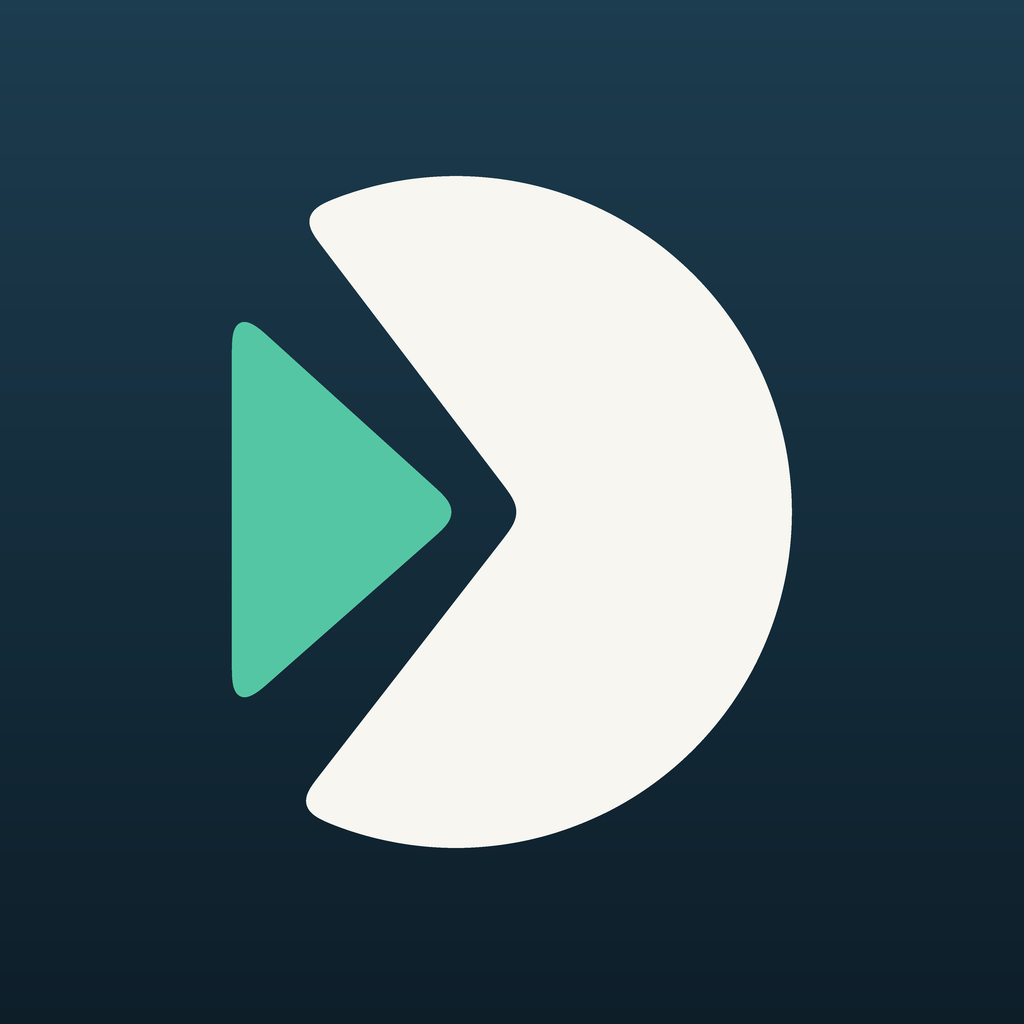
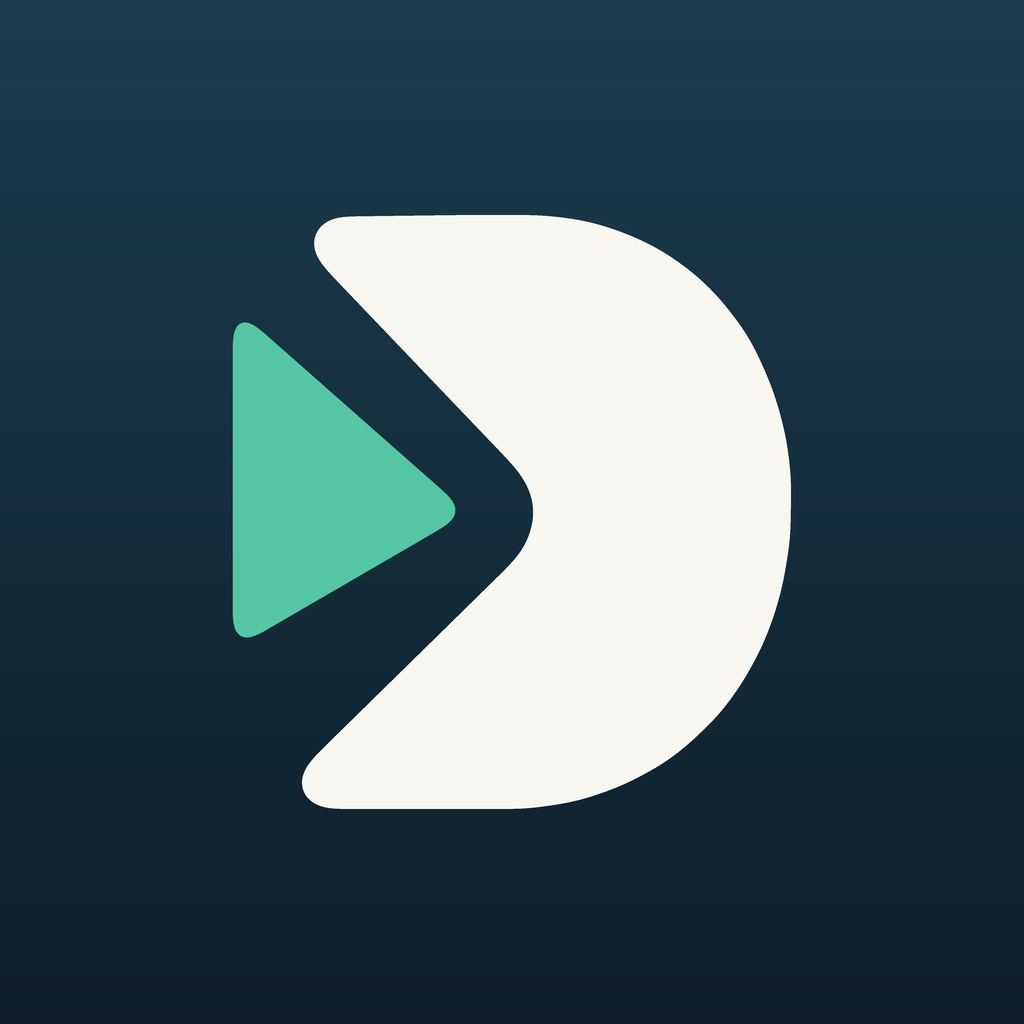
Trace the mark from the approved artwork instead of fitting it
The rejected outline came from re-deriving the shape out of measurements,
which drifted: the notch and sweep were close (48% and 244° against the
artwork's 48% and 244°) but the mint triangle was too tall and the gap
too tight, so the white form read as an inverted Pac-Man.

tools/trace-mark.py now lifts both silhouettes out of the approved PNG,
walks their outlines, simplifies them, and writes tools/mark.json, which
the icon generator draws from. The chevron keeps its traced outline, 45
points, since the artwork's own curve is the thing being approved. The
triangle is reduced to the three corners the trace found and rebuilt,
because tracing a small shape out of soft artwork left its edges lumpy.

Regenerates every asset: icon, adaptive icon, favicon, notification
silhouette, launch screen, OS splash icon, share card and tab icon.

Claude-Session: https://claude.ai/code/session_01VvhCpVzSWbSXcGW3tKcB8b

diff --git a/tools/trace-mark.py b/tools/trace-mark.py
@@ -1,0 +1,163 @@
+"""Traces the Trimio mark straight out of the approved artwork.
+
+Earlier passes re-derived the shape from measurements and drifted, so this
+reads the reference PNG instead: it lifts the two silhouettes, walks their
+outlines, simplifies the result, and writes both an SVG path and the
+normalised polygons the icon generator draws from. The shape is then
+exactly the one that was signed off, not an approximation of it.
+"""
+from PIL import Image, ImageFilter
+import json, sys
+
+SRC = "/root/.claude/uploads/572e8a57-90e7-50e4-9543-30207f74f2cf/f26cd04b-image.png"
+WIN = (280, 180, 1080, 1080)          # inside the tile, clear of its rounded corners
+
+im = Image.open(SRC).convert("RGB").crop(WIN)
+W, H = im.size
+px = im.load()
+
+
+def mask(pred):
+    m = Image.new("L", (W, H), 0)
+    mp = m.load()
+    for y in range(H):
+        for x in range(W):
+            if pred(px[x, y]):
+                mp[x, y] = 255
+    # close antialiasing speckle, then harden the edge again
+    m = m.filter(ImageFilter.MedianFilter(5))
+    return m.point(lambda v: 255 if v >= 128 else 0)
+
+
+white = mask(lambda p: p[0] > 222 and p[1] > 222 and p[2] > 214)
+mint = mask(lambda p: 40 < p[0] < 130 and 170 < p[1] < 250 and 130 < p[2] < 215)
+
+
+def largest_blob(m):
+    """Flood fill from every unvisited pixel, keep the biggest region."""
+    mp = m.load()
+    seen = bytearray(W * H)
+    best = []
+    for sy in range(H):
+        for sx in range(W):
+            if mp[sx, sy] == 0 or seen[sy * W + sx]:
+                continue
+            stack, comp = [(sx, sy)], []
+            seen[sy * W + sx] = 1
+            while stack:
+                x, y = stack.pop()
+                comp.append((x, y))
+                for dx, dy in ((1, 0), (-1, 0), (0, 1), (0, -1)):
+                    nx, ny = x + dx, y + dy
+                    if 0 <= nx < W and 0 <= ny < H and not seen[ny * W + nx] and mp[nx, ny]:
+                        seen[ny * W + nx] = 1
+                        stack.append((nx, ny))
+            if len(comp) > len(best):
+                best = comp
+    out = Image.new("L", (W, H), 0)
+    op = out.load()
+    for x, y in best:
+        op[x, y] = 255
+    return out
+
+
+def trace(m):
+    """Moore neighbourhood contour walk, clockwise."""
+    mp = m.load()
+    start = None
+    for y in range(H):
+        for x in range(W):
+            if mp[x, y]:
+                start = (x, y); break
+        if start: break
+    nbr = [(1, 0), (1, 1), (0, 1), (-1, 1), (-1, 0), (-1, -1), (0, -1), (1, -1)]
+    contour, cur, back = [start], start, 4
+    for _ in range(400000):
+        found = False
+        for k in range(8):
+            d = (back + 1 + k) % 8
+            nx, ny = cur[0] + nbr[d][0], cur[1] + nbr[d][1]
+            if 0 <= nx < W and 0 <= ny < H and mp[nx, ny]:
+                back = (d + 5) % 8
+                cur = (nx, ny)
+                contour.append(cur)
+                found = True
+                break
+        if not found or (len(contour) > 3 and cur == start):
+            break
+    return contour
+
+
+def rdp(pts, eps):
+    if len(pts) < 3:
+        return pts
+    a, b = pts[0], pts[-1]
+    dx, dy = b[0] - a[0], b[1] - a[1]
+    n = (dx * dx + dy * dy) ** .5 or 1
+    worst, wi = 0, 0
+    for i in range(1, len(pts) - 1):
+        p = pts[i]
+        d = abs(dy * (p[0] - a[0]) - dx * (p[1] - a[1])) / n
+        if d > worst:
+            worst, wi = d, i
+    if worst > eps:
+        return rdp(pts[:wi + 1], eps)[:-1] + rdp(pts[wi:], eps)
+    return [a, b]
+
+
+def simplify_loop(c, eps):
+    """RDP needs open chains: a closed loop measures every point as zero
+       distance from a start that equals its end. Split at the far point."""
+    if len(c) > 2 and c[0] == c[-1]:
+        c = c[:-1]
+    a = c[0]
+    far = max(range(len(c)), key=lambda i: (c[i][0] - a[0]) ** 2 + (c[i][1] - a[1]) ** 2)
+    first = rdp(c[:far + 1], eps)
+    second = rdp(c[far:] + [c[0]], eps)
+    return first[:-1] + second[:-1]
+
+
+shapes = {}
+for name, m in (("chevron", white), ("triangle", mint)):
+    blob = largest_blob(m)
+    c = trace(blob)
+    simple = simplify_loop(c, 1.6)
+    if name == "triangle":
+        # It is a triangle. Tracing a small shape out of soft artwork leaves
+        # the edges lumpy, so keep only the three corners the trace found
+        # and let the corner rounding do the rest.
+        xs = [q[0] for q in simple]; ys = [q[1] for q in simple]
+        x0, x1 = min(xs), max(xs)
+        ay = [q[1] for q in simple if q[0] > x1 - 0.015 * (x1 - x0)]
+        simple = [(x0, min(ys)), (x1, sum(ay) / len(ay)), (x0, max(ys))]
+    shapes[name] = simple
+    print(f"{name}: {len(c)} contour points -> {len(simple)} after simplify")
+
+# normalise both into units where the chevron is 100 tall, chevron top-left
+# of the *combined* mark at x=0
+cx0 = min(p[0] for p in shapes["chevron"]); cx1 = max(p[0] for p in shapes["chevron"])
+cy0 = min(p[1] for p in shapes["chevron"]); cy1 = max(p[1] for p in shapes["chevron"])
+tx0 = min(p[0] for p in shapes["triangle"])
+scale = 100.0 / (cy1 - cy0)
+ox = min(cx0, tx0)
+
+norm = {k: [[round((x - ox) * scale, 2), round((y - cy0) * scale, 2)] for x, y in v]
+        for k, v in shapes.items()}
+allx = [p[0] for v in norm.values() for p in v]
+ally = [p[1] for v in norm.values() for p in v]
+meta = {"width": round(max(allx), 2), "height": round(max(ally), 2)}
+print("normalised mark box:", meta)
+
+with open("tools/mark.json", "w") as f:
+    json.dump({"meta": meta, **norm}, f)
+print("wrote tools/mark.json")
+
+
+def to_path(pts):
+    return "M" + " ".join(f"{x} {y}" for x, y in pts) + "Z"
+
+
+with open("tools/mark-paths.txt", "w") as f:
+    f.write("chevron: " + to_path(norm["chevron"]) + "\n\n")
+    f.write("triangle: " + to_path(norm["triangle"]) + "\n")
+print("wrote tools/mark-paths.txt")

diff --git a/tools/make-icons.py b/tools/make-icons.py
@@ -12,7 +12,7 @@ Geometry is expressed in units of the chevron's height, measured off the
 brand sheet, so every size renders from the same numbers.
 """
 from PIL import Image, ImageDraw, ImageFilter
-import math
+import json, pathlib
 
 NAVY      = (20, 43, 58)
 NAVY_HI   = (28, 60, 79)
@@ -20,43 +20,30 @@ NAVY_LO   = (13, 30, 41)
 PAPER     = (247, 246, 241)
 MINT      = (85, 198, 163)
 
-# --- mark geometry, in units where the chevron is 100 tall -------------
-CH_TIP_TOP    = (11.2, 0.0)      # upper tip of the chevron
-CH_TIP_BOT    = (10.4, 100.0)    # lower tip
-CH_APEX       = (49.2, 50.0)     # inner point of the V
-ARC_C         = (37.7, 50.0)     # centre of the outer arc
-ARC_R         = 56.6
-TRI           = [(0.0, 14.9), (0.0, 84.2), (38.8, 50.0)]   # mint triangle
-MARK_W, MARK_H = 94.3, 100.0
-ROUND_R = 3.4                    # corner radius in the same units
+# --- mark geometry -----------------------------------------------------
+# Traced out of the approved artwork by tools/trace-mark.py rather than
+# fitted by hand: an earlier pass re-derived the outline from measurements
+# and drifted into reading as an inverted Pac-Man. mark.json holds both
+# outlines in units where the chevron is 100 tall.
+_MARK = json.loads((pathlib.Path(__file__).parent / "mark.json").read_text())
+CHEVRON = [tuple(p) for p in _MARK["chevron"]]
+TRIANGLE = [tuple(p) for p in _MARK["triangle"]]
+MARK_W, MARK_H = _MARK["meta"]["width"], _MARK["meta"]["height"]
+ROUND_R = 3.2          # the design rounds every corner; the chevron
+                       # arrives already rounded, the triangle does not
 
 
 def _rounded(mask, r_px):
-    """Round every corner by blurring the mask and cutting at half."""
+    """Knock the stair-stepping off the traced outline."""
     if r_px <= 0:
         return mask
     return mask.filter(ImageFilter.GaussianBlur(r_px * 0.62)).point(
         lambda v: 255 if v >= 128 else 0)
 
 
-def _chevron_mask(size, s, ox, oy):
+def _poly_mask(size, pts, s, ox, oy):
     m = Image.new("L", size, 0)
-    d = ImageDraw.Draw(m)
-    a0 = math.atan2(CH_TIP_TOP[1] - ARC_C[1], CH_TIP_TOP[0] - ARC_C[0])
-    a1 = math.atan2(CH_TIP_BOT[1] - ARC_C[1], CH_TIP_BOT[0] - ARC_C[0])
-    pts = [CH_TIP_TOP]
-    steps = 220
-    for i in range(steps + 1):                     # outer arc, through the right
-        a = a0 + (a1 - a0 + 2 * math.pi) % (2 * math.pi) * i / steps
-        pts.append((ARC_C[0] + ARC_R * math.cos(a), ARC_C[1] + ARC_R * math.sin(a)))
-    pts += [CH_TIP_BOT, CH_APEX]
-    d.polygon([(ox + x * s, oy + y * s) for x, y in pts], fill=255)
-    return _rounded(m, ROUND_R * s)
-
-
-def _triangle_mask(size, s, ox, oy):
-    m = Image.new("L", size, 0)
-    ImageDraw.Draw(m).polygon([(ox + x * s, oy + y * s) for x, y in TRI], fill=255)
+    ImageDraw.Draw(m).polygon([(ox + x * s, oy + y * s) for x, y in pts], fill=255)
     return _rounded(m, ROUND_R * s)
 
 
@@ -64,10 +51,9 @@ def draw_mark(img, cx, cy, height, chevron_fill, tri_fill):
     """Places the mark centred on (cx, cy) at the given chevron height."""
     s = height / MARK_H
     ox, oy = cx - MARK_W * s / 2, cy - MARK_H * s / 2
-    for mask, fill in ((_chevron_mask(img.size, s, ox, oy), chevron_fill),
-                       (_triangle_mask(img.size, s, ox, oy), tri_fill)):
+    for pts, fill in ((CHEVRON, chevron_fill), (TRIANGLE, tri_fill)):
         layer = Image.new("RGBA", img.size, fill + (255,))
-        layer.putalpha(mask)
+        layer.putalpha(_poly_mask(img.size, pts, s, ox, oy))
         img.alpha_composite(layer)
 
 
